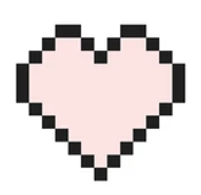
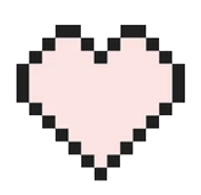
Displaying of health

diff --git a/GameProject/Project1/Source/World.cpp b/GameProject/Project1/Source/World.cpp
@@ -50,7 +50,9 @@ unsigned int		mapeditor = 0;
  float				mouseY;
 
  f32					camX;
-  f32					camY;
+ f32					camY;
+
+ int				pHealth = 3;
  
 
 // -----------------------------------------------------------------------------ma
@@ -90,6 +92,7 @@ static unsigned long		FontListNum;								// The number of used fonts
 // pointer to the ship object
 static GameObjInst* Player;												// Pointer to the "Player" game object instance
 static staticObjInst* mapEditorObj;
+static staticObjInst* Health[3];										// Pointer to the player health statc object instance
 
 // ---------------------------------------------------------------------------
 
@@ -199,9 +202,45 @@ void GS_World_Load(void) {
 	RefLine->type = TYPE_REF;
 	RefLine->refMesh = true;
 
+	//Creating and drawing for full heart
+	GameObj* fHealth;
+	fHealth = sGameObjList + sGameObjNum++;
+	AEGfxMeshStart();
+
+	AEGfxTriAdd(0.5f, -0.5f, 0xFFFF00FF, 1.0f, 1.0f,
+		-0.5f, -0.5f, 0xFFFFFF00, 0.0f, 1.0f,
+		0.5f, 0.5f, 0xFF00FFFF, 1.0f, 0.0f);
+
+	AEGfxTriAdd(-0.5f, -0.5f, 0xFFFFFFFF, 0.0f, 1.0f,
+		-0.5f, 0.5f, 0xFFFFFFFF, 0.0f, 0.0f,
+		0.5f, 0.5f, 0xFFFFFFFF, 1.0f, 0.0f);
+
+	fHealth->pMesh = AEGfxMeshEnd();
+	fHealth->pTexture = AEGfxTextureLoad("Assets/full_heart.png");
+	fHealth->type = TYPE_HEALTH;
+	fHealth->refMesh = true;
+
+	////Creating and drawing for empty heart
+	GameObj* eHealth;
+	eHealth = sGameObjList + sGameObjNum++;
+	AEGfxMeshStart();
+
+	AEGfxTriAdd(0.5f, -0.5f, 0xFFFF00FF, 1.0f, 1.0f,
+		-0.5f, -0.5f, 0xFFFFFF00, 0.0f, 1.0f,
+		0.5f, 0.5f, 0xFF00FFFF, 1.0f, 0.0f);
+
+	AEGfxTriAdd(-0.5f, -0.5f, 0xFFFFFFFF, 0.0f, 1.0f,
+		-0.5f, 0.5f, 0xFFFFFFFF, 0.0f, 0.0f,
+		0.5f, 0.5f, 0xFFFFFFFF, 1.0f, 0.0f);
+
+	eHealth->pMesh = AEGfxMeshEnd();
+	eHealth->pTexture = AEGfxTextureLoad("Assets/empty_heart.png");
+	eHealth->type = TYPE_HEALTH;
+	eHealth->refMesh = true;
+
 	//BUGGY CODE, IF UANBLE TO LOAD, CANNOT USE DEBUGGING MODE
-	s8 font = AEGfxCreateFont("Assets/OpenSans-Regular.ttf", 12);
-	FontList[FontListNum++] = font;
+	//s8 font = AEGfxCreateFont("Assets/OpenSans-Regular.ttf", 12);
+	//FontList[FontListNum++] = font;
 }
 
 /******************************************************************************/
@@ -248,6 +287,12 @@ void GS_World_Init(void) {
 	AEVec2 Pos = { 9.f , 3.f };
 	mapEditorObj = staticObjInstCreate(TYPE_MAP, 0, &Pos, 0);
 
+
+	//Initialise player health.
+	AEVec2 position = { 0.f , 0.f };
+	Health[0] = staticObjInstCreate(TYPE_HEALTH, 1, &position, 0);
+	Health[1] = staticObjInstCreate(TYPE_HEALTH, 1, &position, 0);
+	Health[2] = staticObjInstCreate(TYPE_HEALTH, 1, &position, 0);
 }
 
 
@@ -274,6 +319,10 @@ void GS_World_Update(void) {
 		mapeditor ^= 1;
 	}
 
+	//player health following viewport
+	Health[0]->posCurr = { (float)camX + 7.5f , (float)camY + 5.1f };
+	Health[1]->posCurr = { (float)camX + 8.5f , (float)camY + 5.1f };
+	Health[2]->posCurr = { (float)camX + 9.5f , (float)camY + 5.1f };
 
 	Player->velCurr = { 0,0 };// set velocity to 0 initially, if key is released, velocity is set back to 0
 

diff --git a/GameProject/Project1/Header/GameObjs.h b/GameProject/Project1/Header/GameObjs.h
@@ -51,6 +51,7 @@ enum TYPE
 	TYPE_EFFECTS,
 	TYPE_SLASH,
 	TYPE_REF,
+	TYPE_HEALTH,
 
 	TYPE_NUM
 };
